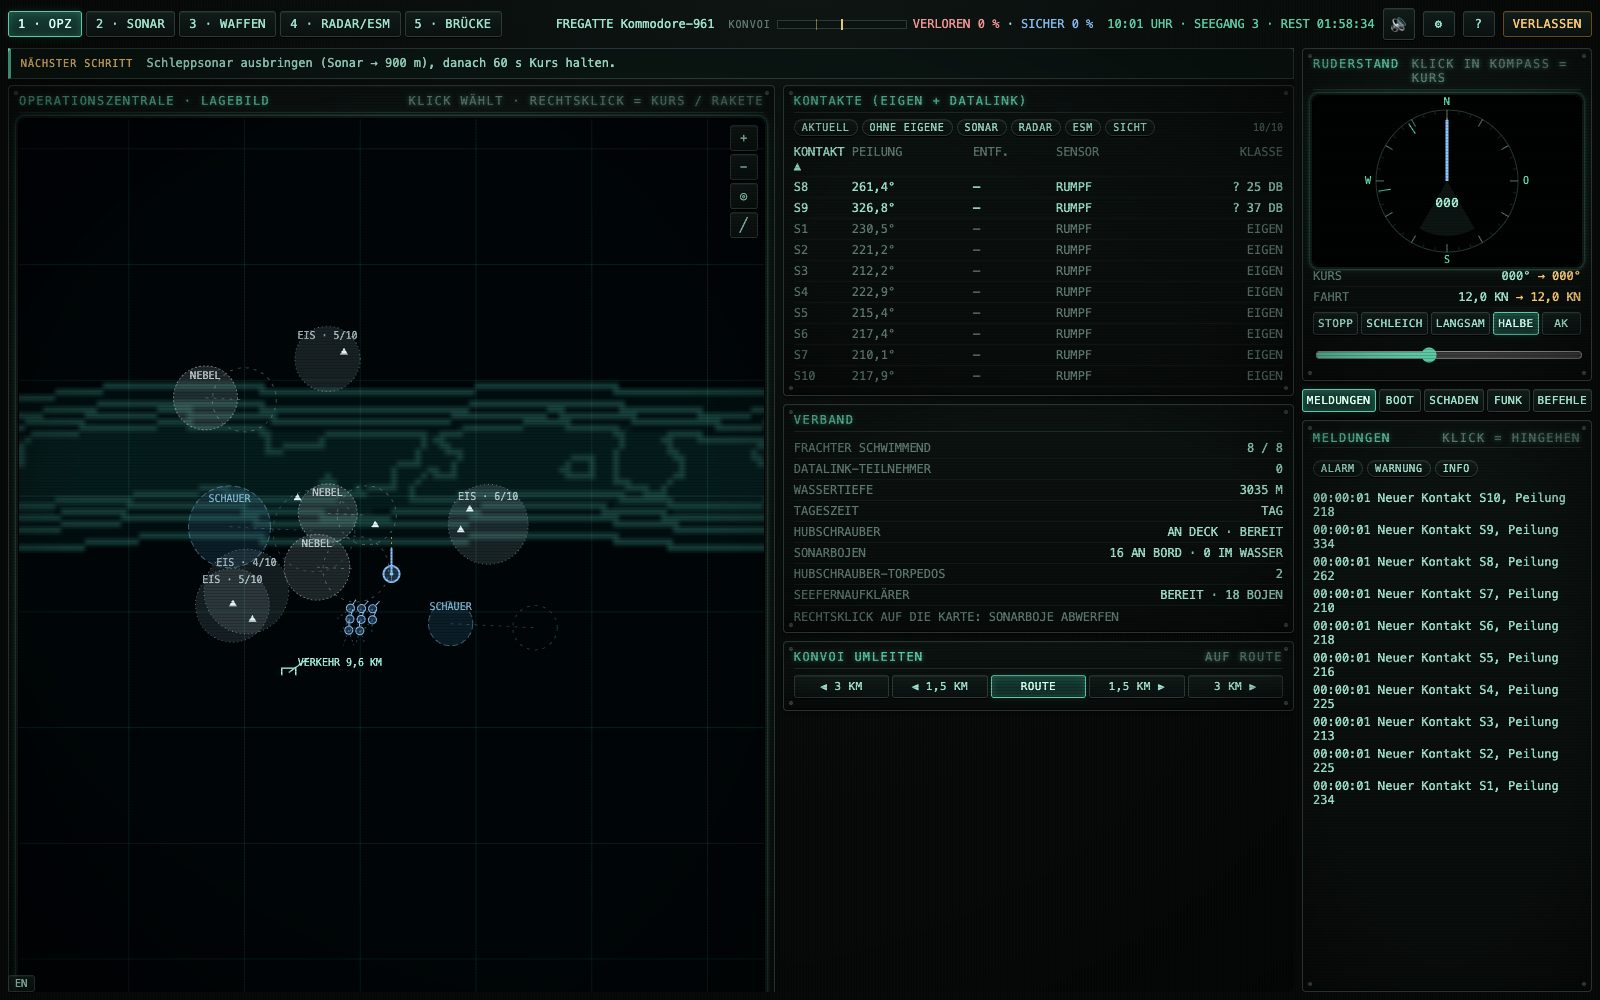
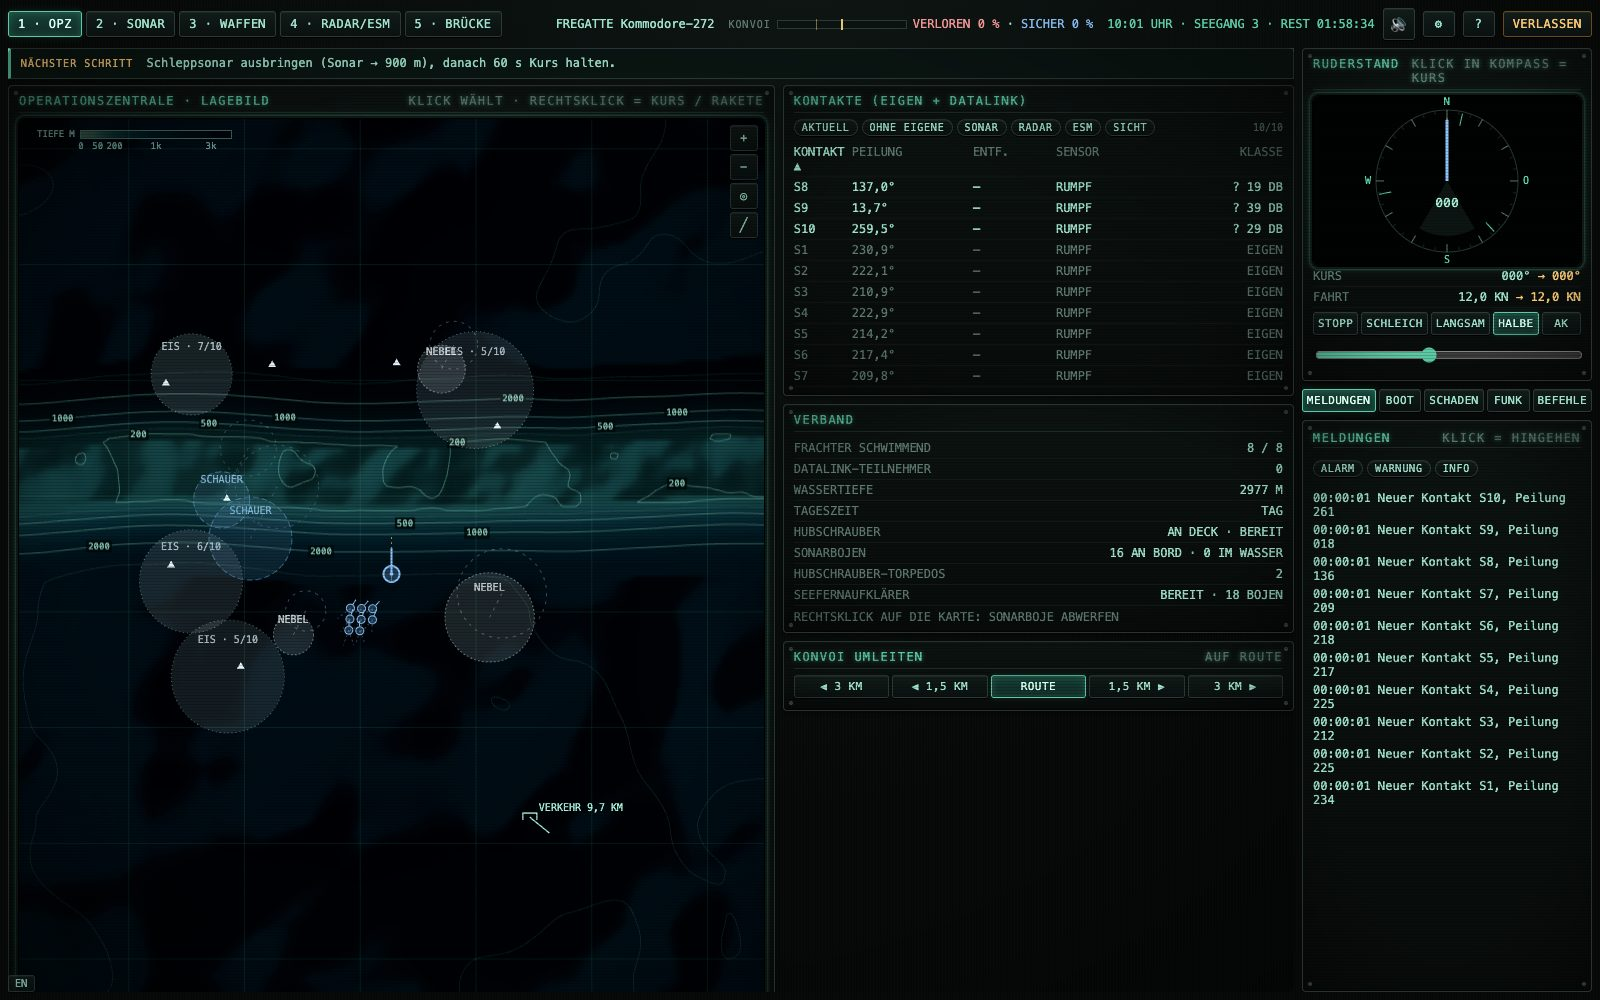
Chart relief: 4 px depth grid sampled over frames, continuous depth tint, hill shading, smooth labelled isobaths (marching squares), depth legend; README screenshots updated

diff --git a/apps/client/src/widgets/plot-depth.ts b/apps/client/src/widgets/plot-depth.ts
@@ -1,43 +1,240 @@
 import { depthAt, type Snapshot, type Vec2 } from '@tk/shared';
 
-/** The plot's chart background, rendered coarsely into a cached image and redrawn when the view moves. */
-export class DepthChart {
-  private cache?: { key: string; img: HTMLCanvasElement; at: number };
+/**
+ * The plot's chart background from the (public) seabed: a continuous depth tint, hill shading
+ * so banks and slopes read as relief, smooth isobaths (marching squares) with depth labels, and
+ * a small legend. The depth grid covers the view plus a margin and is sampled a few rows per
+ * frame, so panning, zooming and the own ship's movement never stall the plot; until a new
+ * render is complete the last one is drawn, mapped to the current view.
+ */
 
-  /** Chart shading from the (public) seabed: land, shoals, shelf and deep water. */
+type Seabed = NonNullable<Snapshot['env']['seabed']>;
+
+/** Screen pixels per depth sample. */
+const CELL = 4;
+/** Margin around the view (fraction of its size) rendered in advance. */
+const MARGIN = 0.35;
+/** Time budget per frame for sampling (ms). */
+const BUDGET_MS = 7;
+/** Isobaths (m); the major ones are brighter and labelled. */
+const LEVELS = [10, 25, 50, 100, 200, 300, 500, 1000, 2000, 3000];
+const MAJOR = new Set([50, 100, 200, 500, 1000, 2000]);
+/** Depth tint stops: depth (m) → colour. Land is olive, shoals light, the deep sea near black. */
+const STOPS: [number, number, number, number][] = [
+  [0, 66, 92, 76], [25, 54, 86, 76], [50, 42, 76, 70], [100, 30, 64, 62], [200, 20, 52, 54],
+  [500, 13, 38, 44], [1000, 9, 29, 35], [2000, 6, 20, 26], [4000, 4, 12, 17],
+];
+
+interface Render {
+  key: string;
+  /** World coordinates of the render area's top-left corner and metres per sample. */
+  x0: number;
+  y0: number;
+  step: number;
+  cols: number;
+  rows: number;
+  img: HTMLCanvasElement;
+}
+
+interface Job extends Omit<Render, 'img'> {
+  spec: Seabed;
+  depths: Float32Array;
+  row: number;
+}
+
+function tint(d: number): [number, number, number] {
+  if (d < 0) return [44, 42, 30];
+  for (let i = 1; i < STOPS.length; i++) {
+    const [z1, r1, g1, b1] = STOPS[i]!;
+    if (d <= z1) {
+      const [z0, r0, g0, b0] = STOPS[i - 1]!;
+      // Interpolate on a log-like scale: the shallow end gets more of the colour range
+      const f = (Math.sqrt(d) - Math.sqrt(z0)) / (Math.sqrt(z1) - Math.sqrt(z0));
+      return [r0 + (r1 - r0) * f, g0 + (g1 - g0) * f, b0 + (b1 - b0) * f];
+    }
+  }
+  const last = STOPS[STOPS.length - 1]!;
+  return [last[1], last[2], last[3]];
+}
+
+export class DepthChart {
+  private done?: Render;
+  private job?: Job;
+
   draw(ctx: CanvasRenderingContext2D, spec: Snapshot['env']['seabed'], c: Vec2, scale: number, w: number, hgt: number): void {
     if (!spec) return;
-    const cell = 6;
-    const cols = Math.ceil(w / cell);
-    const rows = Math.ceil(hgt / cell);
-    const key = `${Math.round(c.x / (scale * 4))}|${Math.round(c.y / (scale * 4))}|${scale.toFixed(2)}|${cols}|${rows}`;
-    const now = performance.now();
-    if (!this.cache || (this.cache.key !== key && now - this.cache.at > 120)) {
-      const img = this.cache?.img ?? document.createElement('canvas');
-      img.width = cols;
-      img.height = rows;
-      const ic = img.getContext('2d')!;
-      const data = ic.createImageData(cols, rows);
-      // Depth bands for isobaths (0, 50, 100, 200, 500, 1000, 2000 m)
-      const band = (d: number) => [0, 50, 100, 200, 500, 1000, 2000].filter((z) => d >= z).length;
-      const depths = new Float32Array(cols * rows);
-      for (let j = 0; j < rows; j++) for (let i = 0; i < cols; i++) depths[j * cols + i] = depthAt(spec, c.x + (i * cell - w / 2) * scale, c.y - (j * cell - hgt / 2) * scale);
-      for (let j = 0; j < rows; j++) {
-        for (let i = 0; i < cols; i++) {
-          const d = depths[j * cols + i]!;
-          const edge = (i + 1 < cols && band(depths[j * cols + i + 1]!) !== band(d)) || (j + 1 < rows && band(depths[(j + 1) * cols + i]!) !== band(d));
-          const [r, g, b] = edge && d >= 0 ? [30, 66, 62] : d < 0 ? [38, 36, 26] : d < 60 ? [52, 64, 50] : d < 300 ? [14, 34, 34] : d < 2000 ? [9, 22, 24] : [6, 14, 16];
-          const k = (j * cols + i) * 4;
-          data.data[k] = r;
-          data.data[k + 1] = g;
-          data.data[k + 2] = b;
-          data.data[k + 3] = 255;
+    const step = scale * CELL;
+    // The render area is anchored on a coarse world grid, so small moves of the view reuse it
+    const ax = Math.round(c.x / (w * scale * MARGIN)) * (w * scale * MARGIN);
+    const ay = Math.round(c.y / (hgt * scale * MARGIN)) * (hgt * scale * MARGIN);
+    const key = `${spec.kind}|${spec.seed}|${spec.bankY ?? ''}|${scale.toFixed(3)}|${ax}|${ay}|${w}|${hgt}`;
+    if (this.done?.key !== key && this.job?.key !== key) {
+      const spanX = w * scale * (1 + 2 * MARGIN);
+      const spanY = hgt * scale * (1 + 2 * MARGIN);
+      const cols = Math.ceil(spanX / step) + 1;
+      const rows = Math.ceil(spanY / step) + 1;
+      this.job = { key, spec, x0: ax - spanX / 2, y0: ay + spanY / 2, step, cols, rows, depths: new Float32Array(cols * rows), row: 0 };
+    }
+    if (this.job) this.work();
+    const r = this.done;
+    if (!r) return;
+    // Map the render's world rectangle onto the current view (handles pan and zoom while a new one is computed)
+    const sx = (r.x0 - c.x) / scale + w / 2;
+    const sy = -(r.y0 - c.y) / scale + hgt / 2;
+    const sw = (r.cols - 1) * (r.step / scale);
+    const sh = (r.rows - 1) * (r.step / scale);
+    ctx.imageSmoothingEnabled = true;
+    ctx.drawImage(r.img, sx, sy, sw, sh);
+    legend(ctx, w, hgt);
+  }
+
+  /** Sample rows of the pending render within the frame budget; finish it when complete. */
+  private work(): void {
+    const j = this.job!;
+    const t0 = performance.now();
+    while (j.row < j.rows && performance.now() - t0 < BUDGET_MS) {
+      const y = j.y0 - j.row * j.step;
+      const base = j.row * j.cols;
+      for (let i = 0; i < j.cols; i++) j.depths[base + i] = depthAt(j.spec, j.x0 + i * j.step, y);
+      j.row++;
+    }
+    if (j.row < j.rows) return;
+    this.done = { key: j.key, x0: j.x0, y0: j.y0, step: j.step, cols: j.cols, rows: j.rows, img: paint(j, this.done?.img) };
+    this.job = undefined;
+  }
+}
+
+/** Tint plus hill shading into the pixel grid, then the isobaths drawn at full resolution on top. */
+function paint(j: Job, reuse?: HTMLCanvasElement): HTMLCanvasElement {
+  const { cols, rows, depths, step } = j;
+  // Shading: slope of the seabed lit from the north-west. Gentle deep-sea slopes are exaggerated
+  // more than steep coastal ones, so both show
+  const tex = document.createElement('canvas');
+  tex.width = cols;
+  tex.height = rows;
+  const tc = tex.getContext('2d')!;
+  const data = tc.createImageData(cols, rows);
+  const at = (i: number, k: number) => depths[Math.min(rows - 1, Math.max(0, k)) * cols + Math.min(cols - 1, Math.max(0, i))]!;
+  for (let k = 0; k < rows; k++) {
+    for (let i = 0; i < cols; i++) {
+      const d = at(i, k);
+      const gx = (at(i + 1, k) - at(i - 1, k)) / (2 * step);
+      const gy = (at(i, k + 1) - at(i, k - 1)) / (2 * step);
+      // Depth grows downwards: a slope deepening towards the south-east faces the light
+      const light = (gx + gy) * 0.7071;
+      const shade = 1 + Math.max(-0.35, Math.min(0.35, Math.sign(light) * Math.sqrt(Math.abs(light)) * 3.2));
+      const [r, g, b] = tint(d);
+      const p = (k * cols + i) * 4;
+      data.data[p] = Math.min(255, r * shade);
+      data.data[p + 1] = Math.min(255, g * shade);
+      data.data[p + 2] = Math.min(255, b * shade);
+      data.data[p + 3] = 255;
+    }
+  }
+  tc.putImageData(data, 0, 0);
+  // Output at screen resolution (one sample = CELL px) so the isobaths stay sharp
+  const out = reuse ?? document.createElement('canvas');
+  out.width = (cols - 1) * CELL;
+  out.height = (rows - 1) * CELL;
+  const oc = out.getContext('2d')!;
+  oc.imageSmoothingEnabled = true;
+  oc.drawImage(tex, 0.5, 0.5, cols - 1, rows - 1, 0, 0, out.width, out.height);
+  isobaths(oc, depths, cols, rows);
+  return out;
+}
+
+/** Marching squares with linear interpolation; coastline bright, major isobaths labelled. */
+function isobaths(ctx: CanvasRenderingContext2D, depths: Float32Array, cols: number, rows: number): void {
+  const levels = [0, ...LEVELS];
+  const labels: { x: number; y: number }[] = [];
+  ctx.font = '9px ui-monospace, monospace';
+  ctx.textAlign = 'center';
+  ctx.textBaseline = 'middle';
+  for (const z of levels) {
+    const segs: number[] = [];
+    for (let k = 0; k < rows - 1; k++) {
+      for (let i = 0; i < cols - 1; i++) {
+        const a = depths[k * cols + i]! - z;
+        const b = depths[k * cols + i + 1]! - z;
+        const c = depths[(k + 1) * cols + i + 1]! - z;
+        const d = depths[(k + 1) * cols + i]! - z;
+        const idx = (a > 0 ? 8 : 0) | (b > 0 ? 4 : 0) | (c > 0 ? 2 : 0) | (d > 0 ? 1 : 0);
+        if (idx === 0 || idx === 15) continue;
+        // Edge crossings (in sample units): top, right, bottom, left
+        const top = [i + a / (a - b), k];
+        const right = [i + 1, k + b / (b - c)];
+        const bottom = [i + d / (d - c), k + 1];
+        const left = [i, k + a / (a - d)];
+        const add = (p: number[], q: number[]) => segs.push(p[0]!, p[1]!, q[0]!, q[1]!);
+        switch (idx) {
+          case 1: case 14: add(left, bottom); break;
+          case 2: case 13: add(bottom, right); break;
+          case 3: case 12: add(left, right); break;
+          case 4: case 11: add(top, right); break;
+          case 5: add(left, top); add(bottom, right); break;
+          case 6: case 9: add(top, bottom); break;
+          case 7: case 8: add(left, top); break;
+          case 10: add(top, right); add(left, bottom); break;
         }
       }
-      ic.putImageData(data, 0, 0);
-      this.cache = { key, img, at: now };
     }
-    ctx.imageSmoothingEnabled = true;
-    ctx.drawImage(this.cache.img, 0, 0, cols * cell, rows * cell);
+    if (!segs.length) continue;
+    const major = MAJOR.has(z);
+    ctx.strokeStyle = z === 0 ? 'rgba(170,190,150,0.85)' : major ? 'rgba(130,200,180,0.42)' : 'rgba(110,170,155,0.2)';
+    ctx.lineWidth = z === 0 ? 1.4 : major ? 1 : 0.7;
+    ctx.beginPath();
+    for (let s = 0; s < segs.length; s += 4) {
+      ctx.moveTo(segs[s]! * CELL, segs[s + 1]! * CELL);
+      ctx.lineTo(segs[s + 2]! * CELL, segs[s + 3]! * CELL);
+    }
+    ctx.stroke();
+    if (!major) continue;
+    // Labels only where the view will be (not in the margin rendered in advance), spaced along
+    // the line and away from other labels
+    const m = MARGIN / (1 + 2 * MARGIN) + 0.03;
+    const [x0, x1, y0, y1] = [m * (cols - 1) * CELL, (1 - m) * (cols - 1) * CELL, m * (rows - 1) * CELL, (1 - m) * (rows - 1) * CELL];
+    const mine: { x: number; y: number }[] = [];
+    for (let s = 0; s < segs.length && mine.length < 5; s += 4) {
+      const x = ((segs[s]! + segs[s + 2]!) / 2) * CELL;
+      const y = ((segs[s + 1]! + segs[s + 3]!) / 2) * CELL;
+      if (x < x0 || x > x1 || y < y0 || y > y1) continue;
+      if (mine.some((l) => Math.hypot(l.x - x, l.y - y) < 220) || labels.some((l) => Math.hypot(l.x - x, l.y - y) < 70)) continue;
+      mine.push({ x, y });
+      labels.push({ x, y });
+      const t = `${z}`;
+      const tw = ctx.measureText(t).width + 4;
+      ctx.fillStyle = 'rgba(6,14,16,0.75)';
+      ctx.fillRect(x - tw / 2, y - 6, tw, 12);
+      ctx.fillStyle = 'rgba(150,210,190,0.85)';
+      ctx.fillText(t, x, y + 0.5);
+    }
   }
+}
+
+/** Depth scale in the upper left corner (the lower edge of the plot can be cut off by its panel). */
+function legend(ctx: CanvasRenderingContext2D, _w: number, _hgt: number): void {
+  const marks = [0, 50, 200, 1000, 3000];
+  const bw = 150;
+  const x = 62;
+  const y = 12;
+  ctx.save();
+  for (let i = 0; i < bw; i++) {
+    // Same square-root scale as the tint, from 0 to 4000 m
+    const d = ((i / bw) * Math.sqrt(4000)) ** 2;
+    const [r, g, b] = tint(d);
+    ctx.fillStyle = `rgb(${r | 0},${g | 0},${b | 0})`;
+    ctx.fillRect(x + i, y, 1, 7);
+  }
+  ctx.strokeStyle = 'rgba(130,200,180,0.5)';
+  ctx.strokeRect(x - 0.5, y - 0.5, bw + 1, 8);
+  ctx.font = '9px ui-monospace, monospace';
+  ctx.fillStyle = 'rgba(150,210,190,0.8)';
+  ctx.textAlign = 'center';
+  for (const m of marks) {
+    const px = x + (Math.sqrt(m) / Math.sqrt(4000)) * bw;
+    ctx.fillText(m >= 1000 ? `${m / 1000}k` : `${m}`, px, y + 18);
+  }
+  ctx.textAlign = 'right';
+  ctx.fillText('TIEFE M', x - 6, y + 6);
+  ctx.restore();
 }

diff --git a/packages/shared/src/protocol.ts b/packages/shared/src/protocol.ts
@@ -339,7 +339,7 @@ export interface Snapshot {
     light?: number;
     /** Water depth under the own ship (m) and the chart, which is public. */
     bottom?: number;
-    seabed?: { kind: 'tief' | 'schelf' | 'fjord'; seed: number };
+    seabed?: { kind: 'tief' | 'schelf' | 'fjord'; seed: number; /** Shallow bank across deep water (Grönland), seabed.ts. */ bankY?: number };
     rain?: boolean;
     /** Met forecast: fog banks, rain squalls, ice floes and icebergs (public). */
     met?: import('./met.js').MetCells;

diff --git a/apps/client/src/i18n/en-more.ts b/apps/client/src/i18n/en-more.ts
@@ -67,6 +67,7 @@ export const EN_MORE: [string, string][] = [
 
 /** Canvas-only labels (short, single letters allowed). */
 export const EN_CANVAS: [string, string][] = [
+  ['TIEFE M', 'DEPTH M'],
   ['O', 'E'], ['BB', 'P'], ['STB', 'S'], ['SEEFERNAUFKL.', 'MPA'], ['TAUCHSONAR', 'DIPPING'], ['HUBSCHR.', 'HELO'],
 ];
 
